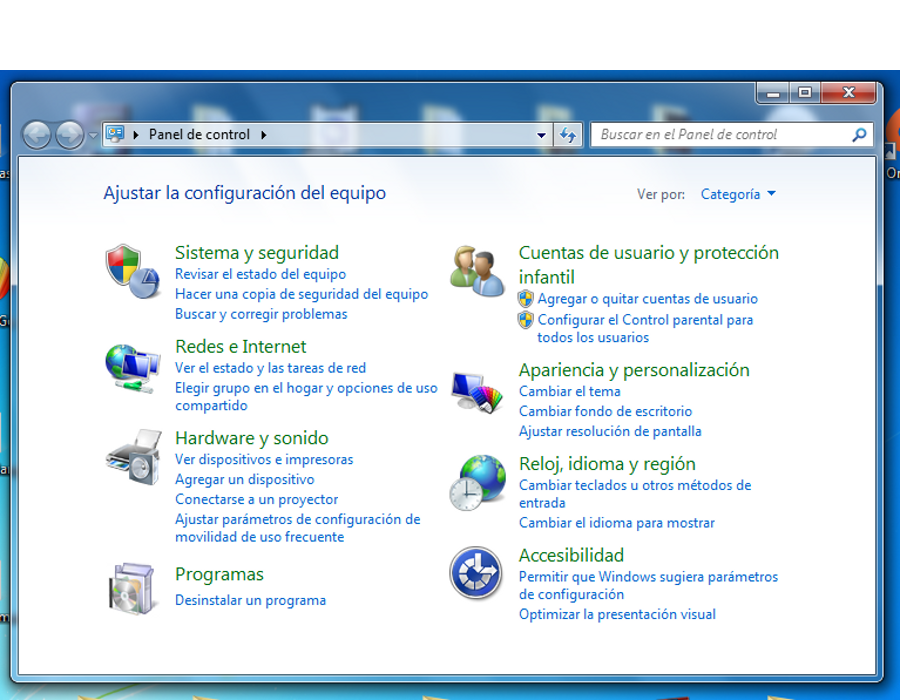
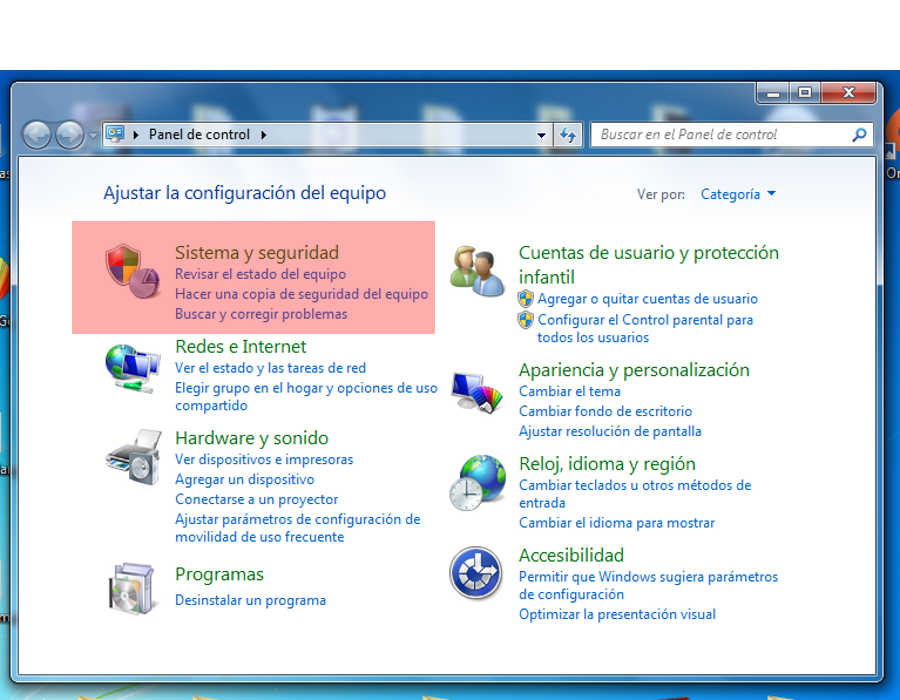
mas trapas

Changed region(s): [[0.0622, 0.3, 0.4978, 0.48]]

diff --git a/windows7/08-actualizacion-y-seguridad/index.html b/windows7/08-actualizacion-y-seguridad/index.html
@@ -55,13 +55,25 @@
         </ul>
       </article>
 
+      <article>
+        <h1 class="title">Actualización del sistema</h1>
+        <hr class="title" />
+        <img class="logo shadow" src="images/windowsupdate.jpg" />
+        <p class="justify">Windows 7 incorpora un sistema de actualizaciones del sistema automáticas, que vienen a corregir problemas de seguridad o de estabilidad del sistema y que se aplican de manera transparente.</p>
+        <ul>
+            <li><strong>Totalmente recomendables.</strong> Las actualizaciones son 100% seguras ya que están certificadas por Microsoft.</li>
+            <li><strong>Importantes y opcionales.</strong> Las actualizaciones importantes se instalarán solas, las opcionales deberemos ser nosotros las que confirmemos su instalación.</li>
+        </ul>
+      </article>
+
       <article class='fill'>
         <h3></h3>
-        <img alt="Escritorio Windows 7 por defecto" src="images/desktop01.jpg" />
-        <img alt="Escritorio Windows 7 personalizado" src="images/desktop02.jpg" />
-        <img alt="Escritorio Windows 7 personalizado" src="images/desktop03.jpg" />
-        <img alt="Escritorio Windows 7 personalizado" src="images/desktop04.jpg" />
-        <img alt="Escritorio Windows 7 personalizado" src="images/desktop05.jpg" />
+        <img alt="En el panel de control encontramos las opciones de Sistema" src="images/actualizar00.png" />
+        <img alt="Y dentro de Sistema las opciones de Actualización" src="images/actualizar01.png" />
+        <img alt="Muchas veces se descarga de manera silenciosa y se aplican al apagar el equipo" src="images/actualizar02.png" />
+        <img alt="Windows 7 selecciona por nosotros las actualizaciones recomendables" src="images/actualizar03.png" />
+        <img alt="Inicia el proceso de instalación en segundo plano..." src="images/actualizar04.png" />
+        <img alt="Posiblemente solicite reiniciar el equipo una vez instaladas" src="images/actualizar05.png" />
         <div class='source white'>
             <p>Cambia de foto con las teclas: <span class="key">&uarr;</span> y <span class="key">&darr;</span>
         </div>
@@ -81,92 +93,40 @@
 
       <article class='fill'>
         <h3></h3>
-        <img alt="" src="images/firewall01.png" />
-        <img alt="" src="images/firewall02.png" />
-        <img alt="" src="images/firewall03.png" />
-        <img alt="" src="images/firewall04.png" />
-        <img alt="" src="images/firewall05.png" />
-        <img alt="" src="images/firewall06.png" />
-        <img alt="" src="images/firewall07.png" />
+        <img alt="Si pulsamos con el botón derecho sobre el icono de red, podremos abrir el centro de redes y recursos compartidos" src="images/firewall01.png" />
+        <img alt="Podremos ver información básica de la red, y acceder al firewall de Windows" src="images/firewall02.png" />
+        <img alt="Dependiendo del tipo de red en el que estemos conectado, se aplican unas políticas u otras" src="images/firewall03.png" />
+        <img alt="Podemos personalizar la configuración de cada tipo de red" src="images/firewall04.png" />
+        <img alt="Incluso podemos permitir o denegar el acceso a internet por programas" src="images/firewall05.png" />
+        <img alt="Si desactivamos el Firewall, se nos notificará con una alerta roja" src="images/firewall06.png" />
+        <img alt="Cuando un programa quiere acceder a internet, se nos solicitará permiso en primera instancia" src="images/firewall07.png" />
         <div class='source white'>
             <p>Cambia de foto con las teclas: <span class="key">&uarr;</span> y <span class="key">&darr;</span>
         </div>
       </article>
 
       <article>
-        <h1 class="title">Gadgets</h1>
+        <h1 class="title">Microsoft Security Essentials</h1>
         <hr class="title" />
-        <img class="logo shadow" src="images/gadget.jpg" />
-        <p class="justify">Los gadgets no son más que información útil presentada de una manera muy atractiva en nuestro escritorio. Tenemos gadgets de:</p>
+        <img class="logo shadow" src="images/mse.png" />
+        <p class="justify">Es un antivirus <strong>gratiuito</strong> que nos proporciona microsoft para protegernos contra las principales amenazas de la red.</p>
         <ul>
-            <li><strong>Calendario.</strong></li>
-            <li><strong>Reloj.</strong></li>
-            <li><strong>Información del sistema.</strong></li>
-            <li><strong>Información del tiempo.</strong></li>
-            <li><strong>Bolsa.</strong></li>
-            <li><strong>Noticias.</strong></li>
-            <li><strong>etc...</strong></li>
+            <li><strong>Protección contra virus.</strong> El <strong>MSE</strong> es capaz de actualizarse y protegernos de las últimas amenazas que puedan aparecer en la red.</li>
+            <li><strong>Protección contra spyware o malware.</strong> Nos defenderá de todas las variantes de virus, de las más peligrosas a las más inocuas.</li>
         </ul>
       </article>
 
       <article class='fill'>
         <h3></h3>
-        <img alt="Accedemos a los gadgets con el botón derecho del ratón sobre el escritorio" src="images/gadgets01.png" />
-        <img alt="Tenemos disponibles varios gadgets" src="images/gadgets02.png" />
-        <img alt="Al pulsar sobre ellos se añadirán al escritorio" src="images/gadgets03.png" />
-        <img alt="Podemos añadir todos los gadgets que queramos" src="images/gadgets04.png" />
-        <img alt="Al pasar por encima de un gadget, aparecent sus opciones" src="images/gadgets041.png" />
-        <img alt="Cada gadget se configura de manera diferente" src="images/gadgets05.png" />
-        <img alt="Para configurar el tiempo ponemos la ciudad donde estamos" src="images/gadgets06.png" />
+        <img alt="En el panel de control se nos informa del estado de la protección del equipo" src="images/antivirus00.png" />
+        <img alt="Microsoft nos recomienda algunos antivirus" src="images/antivirus01.png" />
+        <img alt="Vamos a instalar el antivirus de Microsoft: Microsoft Security Essentials" src="images/antivirus02.png" />
+        <img alt="Descargamos la aplicación e iniciamos el asistente" src="images/antivirus03.png" />
+        <img alt="El propio instalador detectará si tenemos activado firewall, y si no lo tenemos nos recomendará que lo activemos" src="images/antivirus05.png" />
+        <img alt="Finalmente, nuestro equipo estará protegido" src="images/antivirus06.png" />
         <div class='source white'>
             <p>Cambia de foto con las teclas: <span class="key">&uarr;</span> y <span class="key">&darr;</span>
         </div>
-      </article>
-
-      <article>
-        <h1 class="title">Operaciones con los gadgets</h1>
-        <hr class="title" />
-        <img class="logo shadow" src="images/gadget.jpg" />
-        <p class="justify">Veamos cuáles son las operaciones que podemos realizar con un gadget.</p>
-        <ul>
-            <li><strong>Posicion.</strong> Al pinchar sobre el gadget podremos arrastrarlo/soltarlo a la posición del escritorio que queramos.</li>
-            <li><strong>Tamaño.</strong> Algunos gadgets podemos agrandarlos/reducirlos para que ocupen más/menos zona del escritorio, con el botón correspondiente de configuración.</li>
-            <li><strong>Configuración.</strong> La mayoría de gadgets son configurables, por lo que si queremos personalizar alguna característica deberemos entrar en la opción correspondiente de configuración.</li>
-        </ul>
-      </article>
-
-      <article class="biglogo">
-          <h2 class="title">Utilidades</h2>
-        <div class="subinfo">
-          Apreta la tecla <span class="key">&rarr;</span> para avanzar.
-      </article>
-
-      <article>
-        <h1 class="title">Recortes (snipping tool)</h1>
-        <hr class="title" />
-        <img class="logo shadow" src="images/recortes.jpg" />
-        <p class="justify">Es una herramienta que nos permitirá sacar capturas de pantalla de nuestro escritorio, para guardarlas en forma de imágenes, o incrustarlas en documentos.</p>
-        <br style="clear: both;" />
-        <img style="width: 400px;" src="images/recortes01.jpg" />
-      </article>
-
-      <article>
-        <h1 class="title">Grabadora</h1>
-        <hr class="title" />
-        <img class="logo shadow" src="images/rec.png" />
-        <p class="justify">Si tenemos micrófono podemos utilizar la grabadora para tomar notas de audio, o registrar conversaciones para enviar por correo.</p>
-        <br style="clear: both;" />
-        <img style="width: 600px;" src="images/grabadora01.png" />
-      </article>
-
-      <article>
-        <h1 class="title">Notas</h1>
-        <hr class="title" />
-        <img class="logo shadow" src="images/notes.jpg" />
-        <p class="justify">La herramienta de notas nos permite poner a vista recordatorios y eventos que queramos tener a vista, al estilo de los famosos <strong>posits</strong>
-        <br style="clear: both;" />
-        <br style="clear: both;" />
-        <img style="width: 600px;" src="images/notes01.png" />
       </article>
 
     </section>

diff --git a/windows7/08-actualizacion-y-seguridad/practica/index.html b/windows7/08-actualizacion-y-seguridad/practica/index.html
@@ -29,53 +29,44 @@
     <div id="main" class="wrapper">
         <article>
             <h2>1. Introducción</h2>
-            <img class="logo" src="images/intro.gif" />
-            <p>En la práctica de hoy veremos como personalizar nuestro escritorio, añadir gadgets, así como hacer uso de utilidades que vienen preinstaladas en Windows 7 y que pueden servirnos en las tareas del día a día.</p>
+            <p>En la práctica de hoy realizaremos varios ejercicios relacionados con la la red de redes, y el enlace que existe entre Internet y el sistema operativo Windows 7.</li>
             <br style="clear: both;" />
-            <h2>2. Cambiando el fondo de escritorio</h2>
-            <img class="logo shadow" src="images/images.jpg" />
-            <p>Os he enviado por correo un e-mail que lleva adjunto un fondo de pantalla. ¿Sabríais establecer esa imagen como el fondo de escritorio activo?</p>
+            <h2>2. Buscando nuestra dirección IP</h2>
+            <img class="logo shadow" src="images/ip.jpg" />
+            <p>Como ya sabéis, todos los equipos conectados a internet tienen asociada una dirección IP pública que le identifica dentro de internet. ¿Sabrías buscar cuál es la dirección IP que estás utilizando ahora mismo?</p>
             <ul>
-                <li><strong>Pulsa con el botón derecho sobre el escritorio y selecciona la opción ""</strong></li>
+                <li><strong>Pista:</strong> Busca en <strong>Google</strong> "cual es mi ip".</li>
             </ul>
             <br />
             <br />
             <br style="clear: both;" />
-            <h2>3. Organizando la información en carpetas</h2>
-            <img class="logo shadow" src="images/folder.jpg" />
-            <p>Vamos a ver cómo podemos organizar todas esas fotografías que os he enviado.</p>
+            <h2>2. Localizando en el mapa una dirección IP</h2>
+            <img class="logo shadow" src="images/map.gif" />
+            <p>A modo de curiosidad, veréis que existe un enlace entre la dirección IP que utilizamos y la ubicación física. No es muy exacto pero sí que se aproxima bastante.</p>
             <ul>
-                <li>Crea 4 carpetas en el escritorio: <strong>Europa</strong>, <strong>América</strong>, <strong>Asia</strong>, y <strong>África</strong>.</li>
-                <li>Mueve cada una de las fotos que te he enviado a la carpeta que le corresponda.</li>
-                <li>Hay alguna foto que es dificililla de saber a qué continente pertenece. ¿Sabrías algún truco para extraer información a partir de una foto?</li>
+                <li><strong>Busca la dirección IP que has encontrado antes en esta página web:</strong> <a href="http://www.internautas.org/w-iplocaliza.html">http://www.internautas.org/w-iplocaliza.html</a></li>
             </ul>
             <br />
-            <br style="clear: both;" />
-            <h2>3. Organizando en subcarpetas</h2>
-            <img class="logo shadow" src="images/folder.jpg" />
-            <p>Creemos ahora una carpeta llamada <strong>Fotos del mundo</strong>, donde moveremos todas las carpetas que hemos creado.</p>
-            <ul>
-                <li>Puedes mover una a una cada carpeta de los continentes a la nueva carpeta.</li>
-                <li>Pero... ¿sabrías mover todas las carpetas con una única operación?</li>
-            </ul>
             <br />
             <br style="clear: both;" />
-            <h2>3. Visualizando el contenido</h2>
-            <img class="logo shadow" src="images/explorer.png" />
+            <h2>3. Cambiando el fondo de pantalla</h2>
+            <img class="logo shadow" src="images/pirineos.jpg" />
+            <p>Vamos ahora a practicar el cambio del fondo de pantalla, como vimos el otro día.</p>
             <ul>
-                <li>Abre un explorador y accede a la carpeta <strong>Fotos del mundo</strong></li>
-                <li>Sin navegar por las carpetas, ¿sabrías encontrar rápidamente la foto del <strong>Cañón del colorado</strong>?</li>
-                <li>Cambia entre los diferentes modos de visualización de documentos (iconos grandes, detalle, lista, ...)?</li>
+                <li>Busca por Google Images un fondo de pantalla que te guste de cualquiera de estas temáticas: "playas", "espacio", "formula 1", "Pirineos", "Everest".</li>
+                <li>Descarga la imagen a la mejor resolución posible. Normalmente conviene que la resolución sea superior a 1280x1024.</li>
+                <li>Establece la imagen de manera que ocupe toda la pantalla.</li>
             </ul>
             <br />
+            <br />
             <br style="clear: both;" />
-            <h2>3. Dispositivos</h2>
-            <img class="logo shadow" src="images/device.png" />
-            <p>Veamos ahora como interactuar con el explorador y los dispositivos</p>
+            <h2>4. Recortes</h2>
+            <img class="logo shadow" src="images/art.png" />
+            <p>Finalmente, os propongo que visitemos unas cuantas webs intersantes, y quiero que me saquéis recortes de todo lo que veáis interesante.</p>
             <ul>
-                <li>¿Cuántos dispositivos tiene conectado el ordenador al que estás sentado/a?</li>
-                <li>¿Cuál es la unidad de almacenamiento principal donde está el <strong>Windows 7</strong> y toda nuestra información?</li>
-                <li>¿Cuánto espacio disponible tiene esa unidad?</li>
+                <li>Busca sitios interesantes que visitar en <a href="http://minube.com">minube.com</a> y saca recortes de todas las fotos intersantes que veas.</li>
+                <li>Han rediseñado la web del <a href="http://www.googleartproject.com">Google Art Project</a>. Vamos a visitarla y saca recortes de aquellos cuadros que te resulten más interesantes.</li>
+                <li>Finalmente, vamos a visitar la web de <a href="www.google.com/worldwonders">Las maravillas del mundo (Google)</a>. Saca recortes de los sitios que te resulten interesantes.</li>
             </ul>
             <br />
             <br />
